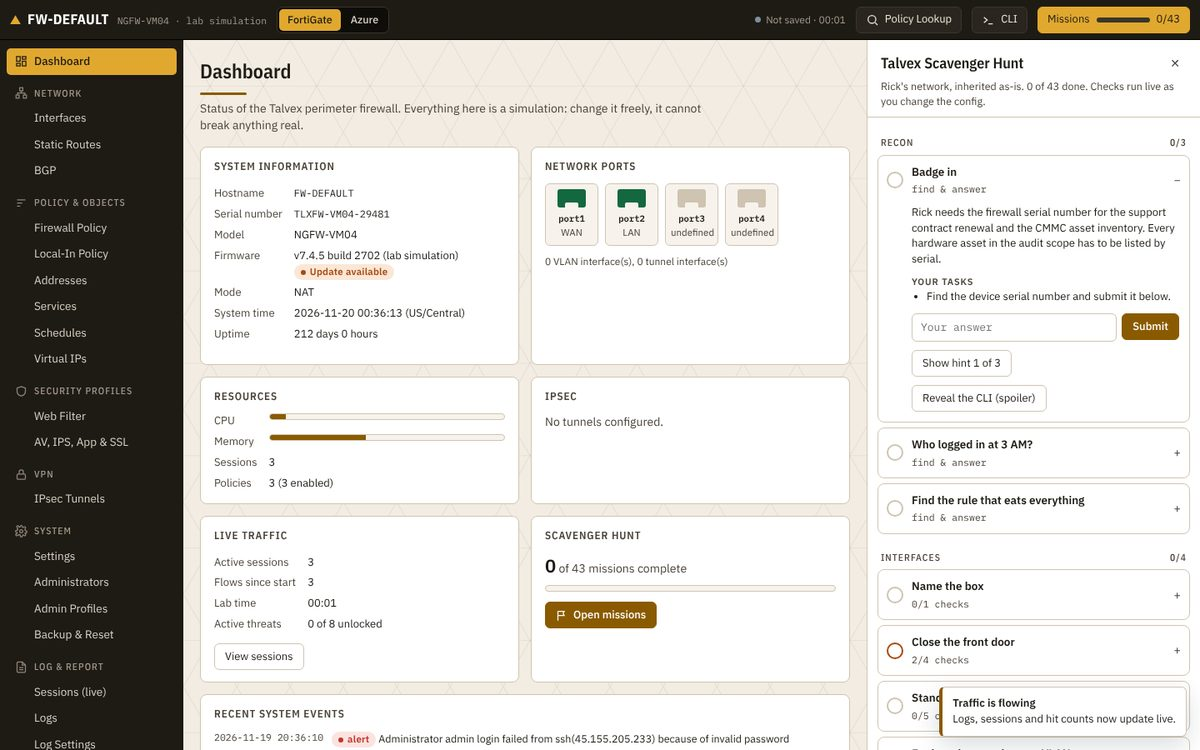
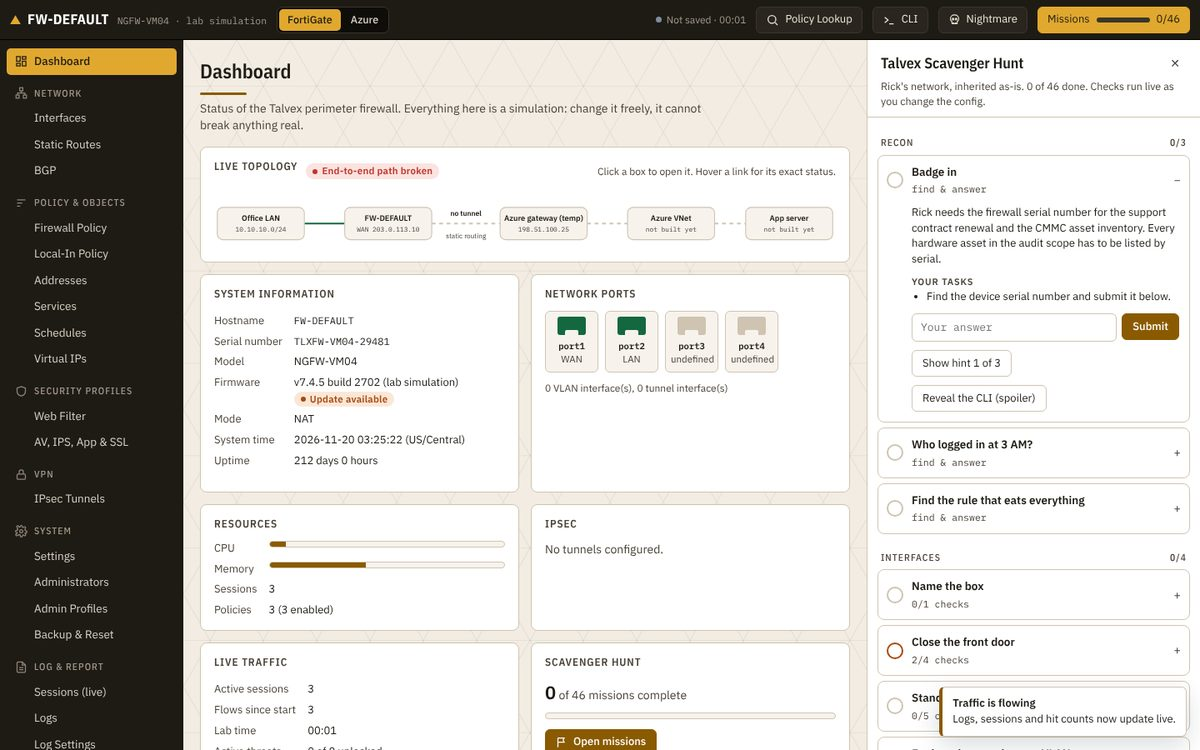
Lab: live topology map (dashboard + Azure home), welcome notes; site, tour and README updated for 46 missions, the live link and Nightmare mode
Claude-Session: https://claude.ai/code/session_01KpD5MzdGJqJauT2ULgC6k8

Changed region(s): [[0.1542, 0.184, 0.7092, 1.0], [0.555, 0.0, 0.8633, 0.0307]]

diff --git a/labs/talvex-firewall/index.html b/labs/talvex-firewall/index.html
@@ -2706,6 +2706,24 @@ if (typeof module !== 'undefined') module.exports = LIVE;
 .nm-card ol { margin: 6px 0 0; padding-left: 20px; }
 .nm-card li { margin: 4px 0; }
 .nm-warn { color: var(--bad); font-size: 13px; }
+.topo-card { grid-column: 1 / -1; }
+.topo-head { display: flex; align-items: center; gap: 10px; flex-wrap: wrap; margin-bottom: 2px; }
+.topo-hint { font-size: 12px; margin-left: auto; }
+.topo { width: 100%; height: auto; display: block; overflow: visible; }
+.topo .tn { cursor: pointer; outline: none; }
+.topo .tn rect { fill: var(--panel-2); stroke: var(--line); stroke-width: 1.5; transition: stroke .15s ease; }
+.topo .tn:hover rect, .topo .tn:focus-visible rect { stroke: var(--accent); stroke-width: 2.5; }
+.topo .nt { font: 600 12.5px var(--f-ui); fill: var(--ink); }
+.topo .ns { font: 10.5px var(--f-mono); fill: var(--muted); }
+.topo .ll { font: 600 11.5px var(--f-ui); fill: var(--ink); }
+.topo .ls { font: 11px var(--f-ui); fill: var(--muted); }
+.topo .tl line { stroke-width: 3; stroke: var(--line); }
+.topo .tl.ok line { stroke: var(--ok); } .topo .tl.bad line { stroke: var(--bad); } .topo .tl.warn line { stroke: var(--warn); }
+.topo .tl.mute line { stroke-dasharray: 6 6; }
+.topo .tl line.flow { stroke: var(--accent); stroke-dasharray: 2 14; stroke-linecap: round; animation: topoflow 1.1s linear infinite; }
+.topo .x { font: 700 16px var(--f-ui); fill: var(--bad); }
+@keyframes topoflow { to { stroke-dashoffset: -16; } }
+@media (prefers-reduced-motion: reduce) { .topo .tl line.flow { animation: none; } }
 .nm .checklist { list-style: none; margin: 4px 0 0; padding: 0; display: grid; gap: 4px; }
 .nm .checklist li { display: flex; gap: 8px; align-items: baseline; }
 .nm .checklist .y { color: var(--ok); font-weight: 700; } .nm .checklist .n { color: var(--bad); font-weight: 700; }
@@ -3215,6 +3233,38 @@ if (typeof module !== 'undefined') module.exports = NIGHTMARE;
 
   /* ================= PAGES ================= */
   const P = {};
+  /* ---------- live topology: every link comes from the same engine the lab runs on ---------- */
+  function topoHtml() {
+    const P = SIM.peer(S), p1 = S.vpn.phase1.find(p => p.remoteGw === P.remoteGw) || S.vpn.phase1[0];
+    const t = p1 ? SIM.tunnel(S, p1.name) : null, bgp = SIM.bgpStatus(S), bgpUp = bgp.some(n => n.up);
+    const lan = S.interfaces.find(i => i.role === 'lan') || {}, wan = S.interfaces.find(i => i.role === 'wan') || {};
+    const vms = S.azure.vms || [], vm = vms.find(m => m.privateIp === '10.100.1.4') || (P.vnet ? vms.find(m => String(m.vnet).toLowerCase() === P.vnet.name.toLowerCase()) : null);
+    let e2e = null; try { e2e = SIM.lookup(S, { srcintf: lan.name || 'port2', srcip: '10.10.10.20', dstip: vm ? vm.privateIp : '10.100.1.4', proto: 'tcp', port: 443 }); } catch (e) { }
+    const flow = !!(e2e && e2e.verdict === 'accept' && e2e.far && e2e.far.ok);
+    const st = x => x === true ? 'ok' : x === false ? 'bad' : 'mute';
+    const links = [
+      { a: 0, b: 1, s: st(lan.status === 'up'), tip: `${lan.name || 'LAN'} ${lan.ip || ''}/${lan.bits || ''} is ${lan.status || 'missing'}` },
+      { a: 1, b: 2, s: !t ? 'mute' : t.up ? 'ok' : t.p1 ? 'warn' : 'bad', tip: t ? `${p1.name}: ${t.reason}` : 'No IPsec tunnel configured yet', label: !t ? 'no tunnel' : t.up ? 'IPsec up' : t.p1 ? 'phase 2 down' : 'IPsec down', sub: bgp.length ? (bgpUp ? 'BGP established' : 'BGP down') : 'static routing' },
+      { a: 2, b: 3, s: P.live ? st(!!P.vnet) : 'mute', tip: P.live ? `${P.gw.name} serves ${P.gw.vnet}` : 'The Azure team\'s temporary gateway answers. Build your own in the Azure view.' },
+      { a: 3, b: 4, s: vm ? st(vm.power === 'running') : 'mute', tip: vm ? `${vm.name} (${vm.privateIp}) is ${vm.power}` : 'No VM at 10.100.1.4 yet' }
+    ];
+    const nodes = [
+      { x: 75, t: 'Office LAN', s: lan.ip ? SIM.n2ip(SIM.netOf(lan.ip, lan.bits)) + '/' + lan.bits : '', go: 'interfaces' },
+      { x: 280, t: S.system.hostname, s: 'WAN ' + (wan.ip || ''), go: 'ipsec' },
+      { x: 530, t: P.live ? P.gw.name : 'Azure gateway (temp)', s: P.remoteGw, go: 'az-vpn' },
+      { x: 735, t: P.vnet ? P.vnet.name : 'Azure VNet', s: P.vnet ? P.vnet.addressSpace.map(x => x.ip + '/' + x.bits).join(', ') : 'not built yet', go: 'az-vnets' },
+      { x: 925, t: vm ? vm.name : 'App server', s: vm ? vm.privateIp + (vm.power === 'running' ? '' : ' · ' + vm.power) : 'not built yet', go: 'az-vms' }
+    ];
+    const Y = 62, W = 70;
+    let svg = '';
+    for (const l of links) {
+      const x1 = nodes[l.a].x + W, x2 = nodes[l.b].x - W, mx = (x1 + x2) / 2;
+      svg += `<g class="tl ${l.s}"><title>${esc(l.tip)}</title><line x1="${x1}" y1="${Y}" x2="${x2}" y2="${Y}"/>${flow && l.s === 'ok' ? `<line class="flow" x1="${x1}" y1="${Y}" x2="${x2}" y2="${Y}"/>` : ''}${l.s === 'bad' ? `<text x="${mx}" y="${Y + 6}" text-anchor="middle" class="x">✕</text>` : ''}${l.label ? `<text x="${mx}" y="${Y - 12}" text-anchor="middle" class="ll">${esc(l.label)}</text><text x="${mx}" y="${Y + 24}" text-anchor="middle" class="ls">${esc(l.sub)}</text>` : ''}</g>`;
+    }
+    for (const n of nodes) svg += `<g class="tn" data-act="nav" data-id="${n.go}" role="link" tabindex="0" aria-label="${esc(n.t)}: open"><title>Open ${esc(n.t)}</title><rect x="${n.x - W}" y="${Y - 26}" width="${W * 2}" height="52" rx="9"/><text x="${n.x}" y="${Y - 4}" text-anchor="middle" class="nt">${esc(n.t)}</text><text x="${n.x}" y="${Y + 13}" text-anchor="middle" class="ns">${esc(n.s)}</text></g>`;
+    return `<section class="card widget topo-card"><div class="topo-head"><h2>Live topology</h2>${flow ? pill('Traffic flows end to end', 'ok') : pill('End-to-end path broken', 'bad')}<span class="muted topo-hint">Click a box to open it. Hover a link for its exact status.</span></div>
+      <svg class="topo" viewBox="0 0 1000 104" role="img" aria-label="Path from the office LAN through the firewall and IPsec tunnel to the Azure app server">${svg}</svg></section>`;
+  }
   P.dashboard = () => {
     const up = Math.floor((Date.now() - S.system.bootedAt) / 1000);
     const ifs = SIM.allIfaces(S);
@@ -3222,7 +3272,7 @@ if (typeof module !== 'undefined') module.exports = NIGHTMARE;
     const done = doneCount();
     const tunnels = S.vpn.phase1.map(p => ({ p, t: SIM.tunnel(S, p.name) }));
     return head('Status of the Talvex perimeter firewall. Everything here is a simulation: change it freely, it cannot break anything real.') + `
-    <div class="dash">
+    <div class="dash">${topoHtml()}
       <section class="card widget"><h2>System Information</h2><dl class="kv">
         <dt>Hostname</dt><dd class="mono">${esc(S.system.hostname)}</dd>
         <dt>Serial number</dt><dd class="mono">${esc(S.system.serial)}</dd>
@@ -3455,7 +3505,7 @@ if (typeof module !== 'undefined') module.exports = NIGHTMARE;
     const ams = MISSIONS.filter(m => m.view === 'azure'), ad = ams.filter(isDone).length;
     const subnets = z.vnets.reduce((n, v) => n + v.subnets.length, 0), running = z.vms.filter(m => m.power === 'running').length;
     return head('A simulated Azure subscription with real Azure names, limits and validation. Build the hub here, break it freely, then port the design to a live subscription.') + warn.map(w => banner('warn', w)).join('') + `
-    <div class="dash">
+    <div class="dash">${topoHtml()}
       <section class="card widget"><h2>Subscription</h2><dl class="kv">
         <dt>Name</dt><dd>${esc(z.subscription.name)}</dd><dt>Subscription ID</dt><dd class="mono">${esc(z.subscription.id)}</dd>
         <dt>Signed in as</dt><dd class="mono">${esc(AZ.USER)}</dd><dt>Plan region</dt><dd>South Central US</dd></dl></section>
@@ -4368,7 +4418,7 @@ if (typeof module !== 'undefined') module.exports = NIGHTMARE;
   $('#startRoot').innerHTML = `<div class="modal-back"><div class="modal start" role="dialog" aria-modal="true" aria-label="Start the lab"><header><h2>Talvex Firewall Lab</h2></header><div class="body">
     <p style="margin:0">You are taking over the Talvex Components firewall as the old IT guy left it. The ${MISSIONS.length} missions walk you from reading the logs to a hardened box with a site-to-site tunnel into Azure, and then into building the Azure side itself, while live traffic and a few live attackers keep the logs moving.</p>
     <div class="notice"><b>Nothing is saved.</b> Closing or reloading this page resets the firewall, the missions and the traffic. Plan on one sitting of about 60 to 75 minutes. If you must step away, System → Backup &amp; Reset can copy your config to paste back later.</div>
-    <ul style="margin:0;padding-left:18px"><li>Missions open on the right. Checks run live as you work.</li><li>Policy Lookup shows which rule handles any packet.</li><li>The CLI button opens a console that shares the same config.</li><li>The FortiGate | Azure switch at the top flips between the firewall and a simulated Azure subscription.</li><li>New threats unlock as you progress. Watch the logs.</li></ul><p style="margin:12px 0 0;font-size:12px;opacity:.75">Independent training simulation by Joshua Richard. Not affiliated with or endorsed by Fortinet; FortiGate, FortiOS and FortiGuard are trademarks of Fortinet, Inc. Talvex is a fictional company and all data here is made up. <a href="../../">Back to the portfolio</a></p>
+    <ul style="margin:0;padding-left:18px"><li>Missions open on the right. Checks run live as you work.</li><li>Policy Lookup shows which rule handles any packet.</li><li>The CLI button opens a console that shares the same config.</li><li>The FortiGate | Azure switch at the top flips between the firewall and a simulated Azure subscription.</li><li>New threats unlock as you progress. Watch the logs.</li><li>The FortiGate and Azure sides are live: build your own Azure VPN gateway and both ends negotiate for real.</li><li>Want it harder? <b>Nightmare</b> (top bar) throws random, escalating production incidents at you.</li></ul><p style="margin:12px 0 0;font-size:12px;opacity:.75">Independent training simulation by Joshua Richard. Not affiliated with or endorsed by Fortinet; FortiGate, FortiOS and FortiGuard are trademarks of Fortinet, Inc. Talvex is a fictional company and all data here is made up. <a href="../../">Back to the portfolio</a></p>
   </div><footer><button class="btn primary" id="startBtn" type="button">Start the lab</button></footer></div></div>`;
   $('#startBtn').addEventListener('click', startLab);
   $('#startBtn').focus();

diff --git a/labs/talvex-firewall/tour/index.html b/labs/talvex-firewall/tour/index.html
@@ -7,7 +7,7 @@
 <title>Talvex Firewall Lab · 2-minute tour</title>
 <meta name="description" content="A 2-minute screenshot tour of the Talvex Firewall Lab, an interactive firewall and Azure training simulation built by Joshua Richard.">
 <meta property="og:title" content="Talvex Firewall Lab · 2-minute tour">
-<meta property="og:description" content="Five screens, plain-English captions: what the lab is and what it trains.">
+<meta property="og:description" content="Six screens, plain-English captions: what the lab is and what it trains.">
 <meta property="og:image" content="https://joshuarichard116-sudo.github.io/jrichard-web/assets/og-image.jpg">
 <meta name="twitter:card" content="summary_large_image">
 <link rel="canonical" href="https://joshuarichard116-sudo.github.io/jrichard-web/labs/talvex-firewall/tour/">
@@ -52,9 +52,9 @@
 <main class="wrap">
   <section class="intro">
     <p class="eyebrow">Talvex Firewall Lab · 2-minute tour</p>
-    <h1>What the lab is, in five screens</h1>
+    <h1>What the lab is, in six screens</h1>
     <span class="rule" aria-hidden="true"></span>
-    <p class="lede">I built this firewall and Azure simulator to work out configurations safely before I make them on live client systems. The public version is a 43-mission training lab with a fictional company. If you don't have an hour to play it, these five screens show what it does.</p>
+    <p class="lede">I built this firewall and Azure simulator to work out configurations safely before I make them on live client systems. The public version is a 46-mission training lab with a fictional company, plus a Nightmare mode of random production incidents. If you don't have an hour to play it, these six screens show what it does.</p>
   </section>
   <ol>
     <li><figure>
@@ -63,7 +63,7 @@
     </figure></li>
     <li><figure>
       <img src="2-missions.jpg" width="1200" height="750" alt="Mission panel listing missions such as Badge in, Who logged in at 3 AM, Close the front door and Stand up the DMZ, with hints and live checks." loading="lazy">
-      <figcaption><h2>43 missions guide the work</h2><p>Missions go from recon (find the serial number for the CMMC asset inventory) to hardening, VLANs, a DMZ, web filtering and admin lockdown. Each one checks the live configuration as you work, with hints if you get stuck.</p></figcaption>
+      <figcaption><h2>46 missions guide the work</h2><p>Missions go from recon (find the serial number for the CMMC asset inventory) to hardening, VLANs, a DMZ, web filtering and admin lockdown. Each one checks the live configuration as you work, with hints if you get stuck.</p></figcaption>
     </figure></li>
     <li><figure>
       <img src="3-logs.jpg" width="1200" height="750" alt="Forward traffic log with accepted HTTPS sessions, outbound RDP sessions, and a denied SMB attempt from an internet address." loading="lazy">
@@ -76,6 +76,10 @@
     <li><figure>
       <img src="5-azure.jpg" width="1200" height="750" alt="Simulated Azure subscription home page warning that a virtual network overlaps the on-premises network, which would break the site-to-site VPN." loading="lazy">
       <figcaption><h2>The Azure side</h2><p>A switch at the top flips to a simulated Azure subscription that uses real Azure names and checks. You build a site-to-site VPN into Azure, and it catches mistakes like an address range that overlaps the office network, which would break the tunnel.</p></figcaption>
+    </figure></li>
+    <li><figure>
+      <img src="6-nightmare.jpg" width="1200" height="750" alt="Nightmare mode panel showing a level 1 incident ticket, live monitoring checks with two failing, and hint and give-up buttons." loading="lazy">
+      <figcaption><h2>Nightmare mode: production is on fire</h2><p>An optional mode that starts from a working production network, plants random faults on either side of the tunnel, and hands you only a ticket and monitoring. Fix it and the next incident is harder; from level 4 problems stack across both teams. Three hints, then a step-by-step walkthrough.</p></figcaption>
     </figure></li>
   </ol>
   <div class="end">

diff --git a/index.html b/index.html
@@ -527,9 +527,9 @@
           <article class="card work featured reveal">
             <p class="kicker">Firewall · Azure · S1 Technology</p>
             <h3><span class="ico"><svg viewBox="0 0 32 32" aria-hidden="true" focusable="false"><rect class="sh" x="3" y="11" width="22" height="16" rx="1.6"/><rect x="3" y="11" width="22" height="16" rx="1.6"/><path d="M3 16.3h22M3 21.6h22M9 11v5.3M17 11v5.3M5 16.3v5.3M13 16.3v5.3M21 16.3v5.3M9 21.6V27M17 21.6V27"/><path class="fl" d="M26 3.5c.6 2.4 3 3.6 3 6.6a3.6 3.6 0 0 1-7.2 0c0-1.3.6-2.3 1.4-3 .2 1 .8 1.6 1.4 1.8-.4-2 .4-3.8 1.4-5.4z"/><path class="ac" d="M26 3.5c.6 2.4 3 3.6 3 6.6a3.6 3.6 0 0 1-7.2 0c0-1.3.6-2.3 1.4-3 .2 1 .8 1.6 1.4 1.8-.4-2 .4-3.8 1.4-5.4z"/><path class="af" d="M25.4 9.4c.5.7 1.5 1.2 1.5 2.2a1.5 1.5 0 0 1-3 0c0-.9.6-1.5 1.5-2.2z"/><path class="hl" d="M5 13.4h2.4"/></svg></span>Firewall configuration lab</h3>
-            <p>Working out firewall changes directly on a live client firewall is risky, so I designed an interactive FortiGate-style firewall and Azure simulator and directed Claude and Grok to build it. I build and test configurations there, then port them one-for-one to live environments. The version that handles real configurations runs only on my own machine; the public version is a 43-mission training lab with fictional data.</p>
+            <p>Working out firewall changes directly on a live client firewall is risky, so I designed an interactive FortiGate-style firewall and Azure simulator and directed Claude and Grok to build it. I build and test configurations there, then port them one-for-one to live environments. The version that handles real configurations runs only on my own machine; the public version is a 46-mission training lab with fictional data, a live FortiGate-to-Azure link, and a Nightmare mode of random production incidents.</p>
             <p class="take">Get the change right somewhere safe first, then make it once in production.</p>
-            <div class="chips"><span class="chip">FortiGate-style config</span><span class="chip">IPsec site-to-site</span><span class="chip">Azure networking</span><span class="chip">Built with AI help</span></div>
+            <div class="chips"><span class="chip">FortiGate-style config</span><span class="chip">IPsec site-to-site</span><span class="chip">Azure networking</span><span class="chip">Nightmare mode</span><span class="chip">Built with AI help</span></div>
             <p class="lab-cta"><a class="btn primary" href="labs/talvex-firewall/" target="_blank" rel="noopener">Play the lab</a><a class="btn" href="labs/talvex-firewall/tour/" target="_blank" rel="noopener">2-minute tour</a><span class="lab-note">The lab runs in your browser · about 60–75 minutes · nothing is saved</span></p>
           </article>
           <article class="card work reveal">
@@ -891,7 +891,7 @@
       label: "Firewall Lab",
       kicker: "Play it",
       title: "Talvex Firewall Lab",
-      text: "An interactive FortiGate-style firewall and Azure simulator I designed and built with AI help. I use it to build and test configurations before porting them one-for-one to live environments. The public version is a 43-mission training lab.",
+      text: "An interactive FortiGate-style firewall and Azure simulator I designed and built with AI help. I use it to build and test configurations before porting them one-for-one to live environments. The public version is a 46-mission training lab with a Nightmare mode of random, escalating incidents.",
       bullets: ["Read the logs, harden the firewall, and stop live simulated attackers", "Build a site-to-site IPsec tunnel into Azure, then build the Azure side", "Policy Lookup and a working CLI that share the same config", "Runs in your browser, about 60–75 minutes, nothing is saved", "Short on time? There is a 2-minute screenshot tour"],
       chips: ["FortiGate-style", "IPsec", "Azure", "Built with AI help"],
       link: {"text": "Play the lab", "href": "labs/talvex-firewall/", "newtab": true}

diff --git a/README.md b/README.md
@@ -5,7 +5,7 @@ Source for my portfolio site, hosted on GitHub Pages: **https://joshuarichard116
 | Path | What it is |
 |---|---|
 | `index.html` | The whole site: HTML, CSS and JavaScript in one file, with no build step and no outside libraries |
-| `labs/talvex-firewall/` | The playable **Talvex Firewall Lab**, a 43-mission firewall and Azure training simulation ([play it](https://joshuarichard116-sudo.github.io/jrichard-web/labs/talvex-firewall/)) |
+| `labs/talvex-firewall/` | The playable **Talvex Firewall Lab**, a 46-mission firewall and Azure training simulation with a live FortiGate-to-Azure link and a Nightmare mode ([play it](https://joshuarichard116-sudo.github.io/jrichard-web/labs/talvex-firewall/)) |
 | `assets/` | Favicon, divider, link-preview image and the resume PDF (phone number removed) |
 | `404.html` | Page-not-found screen |
 | `sitemap.xml`, `robots.txt` | Help search engines find the pages |
